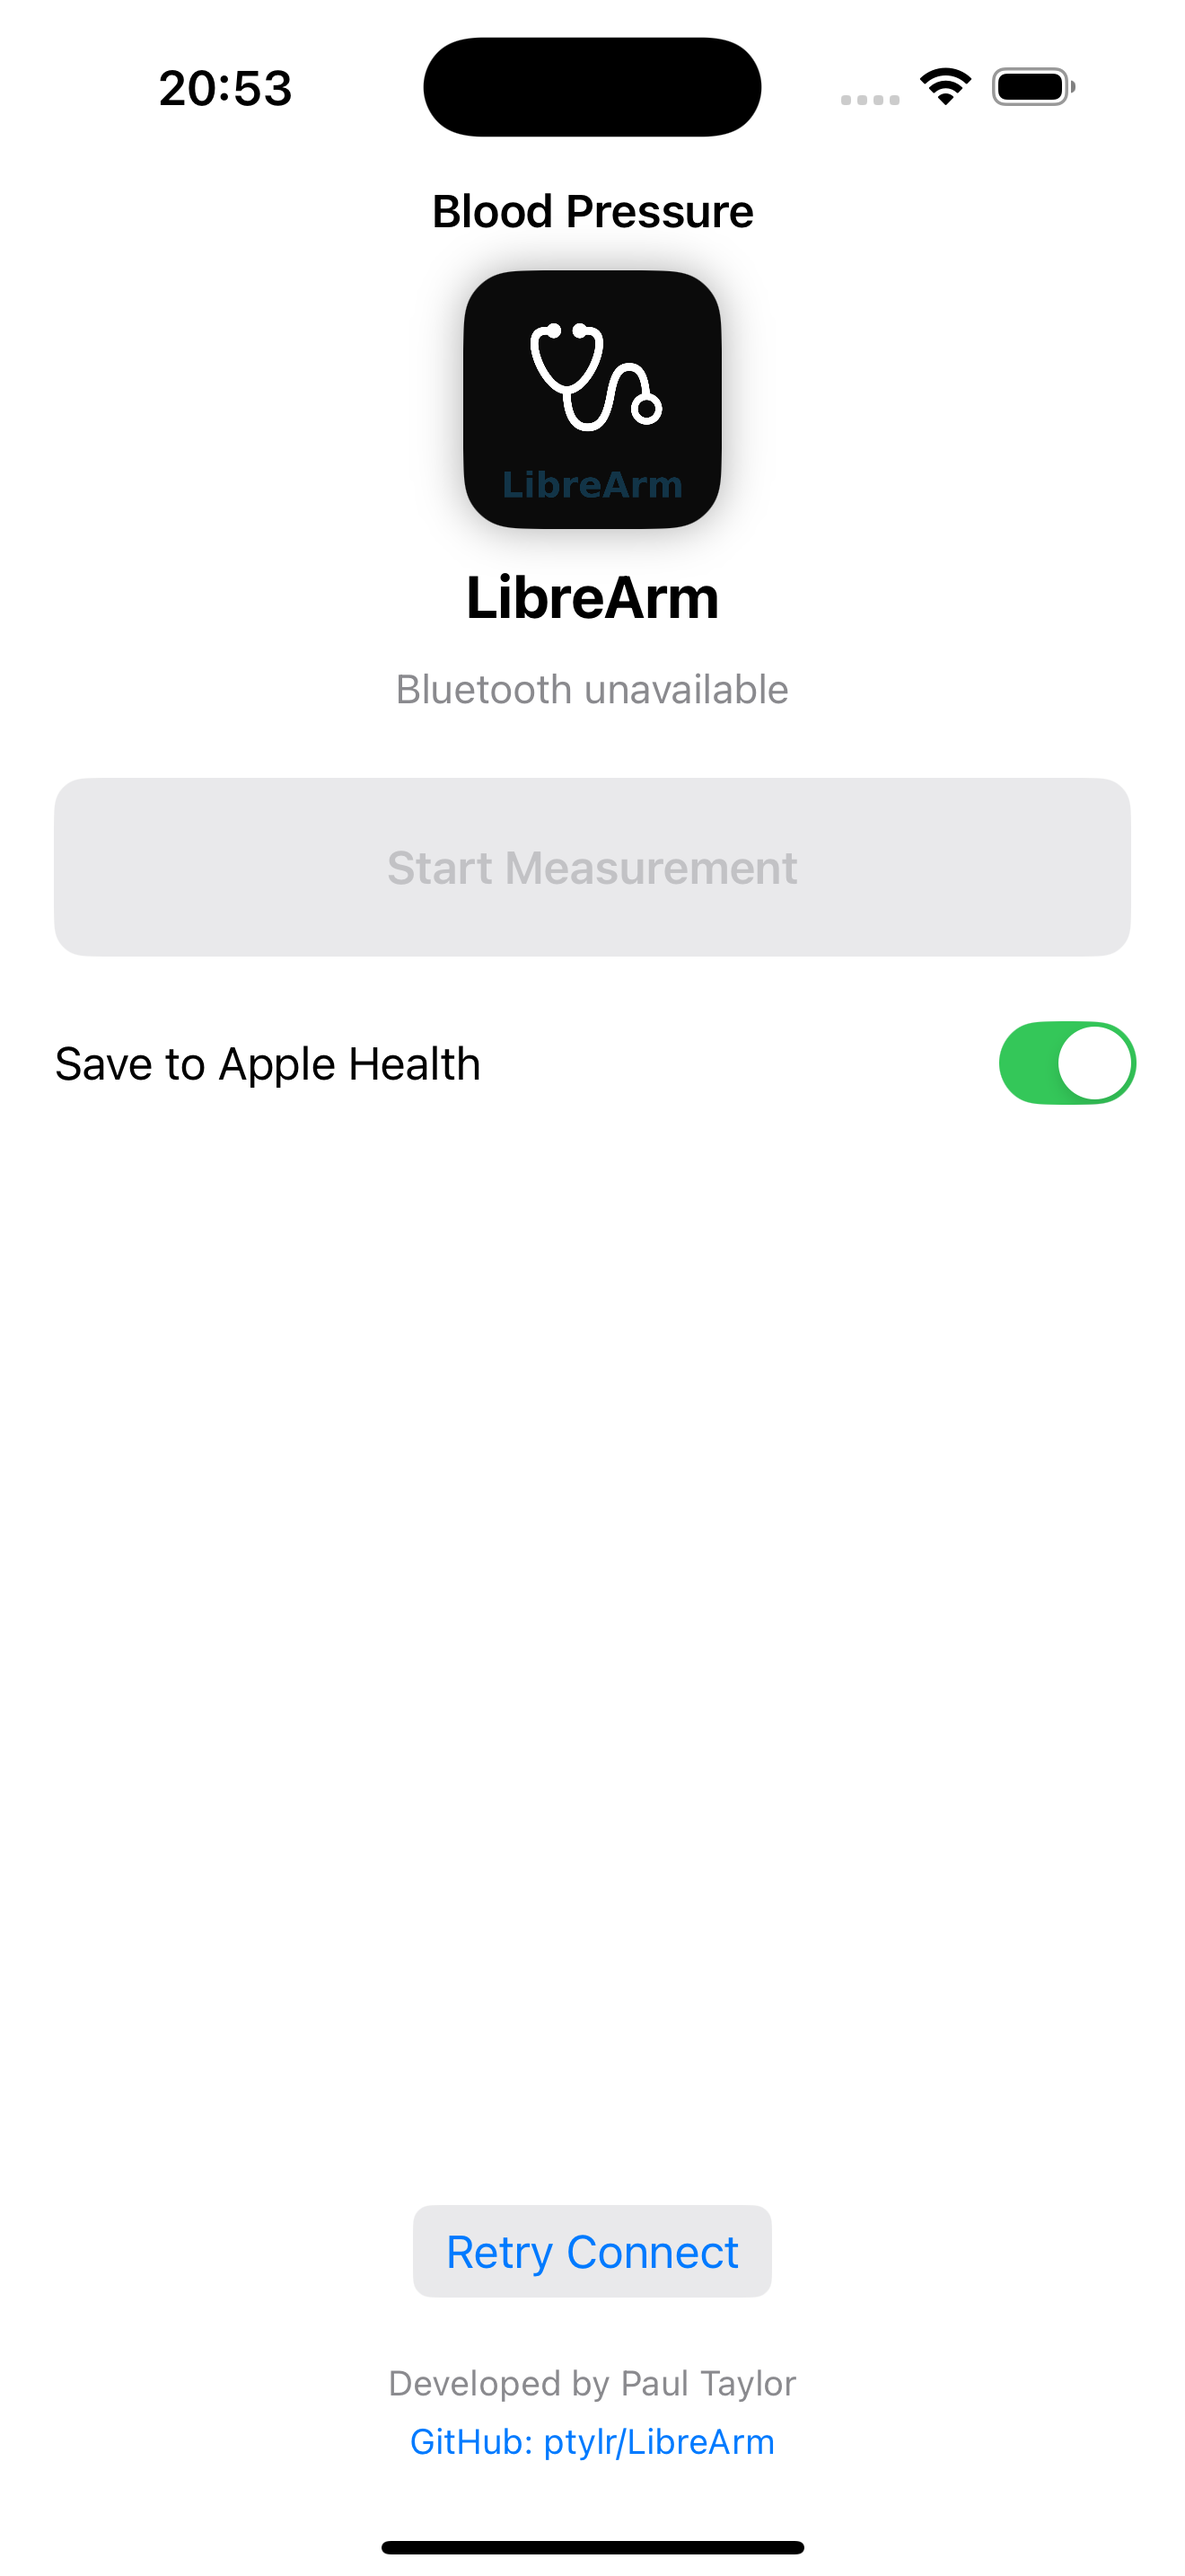
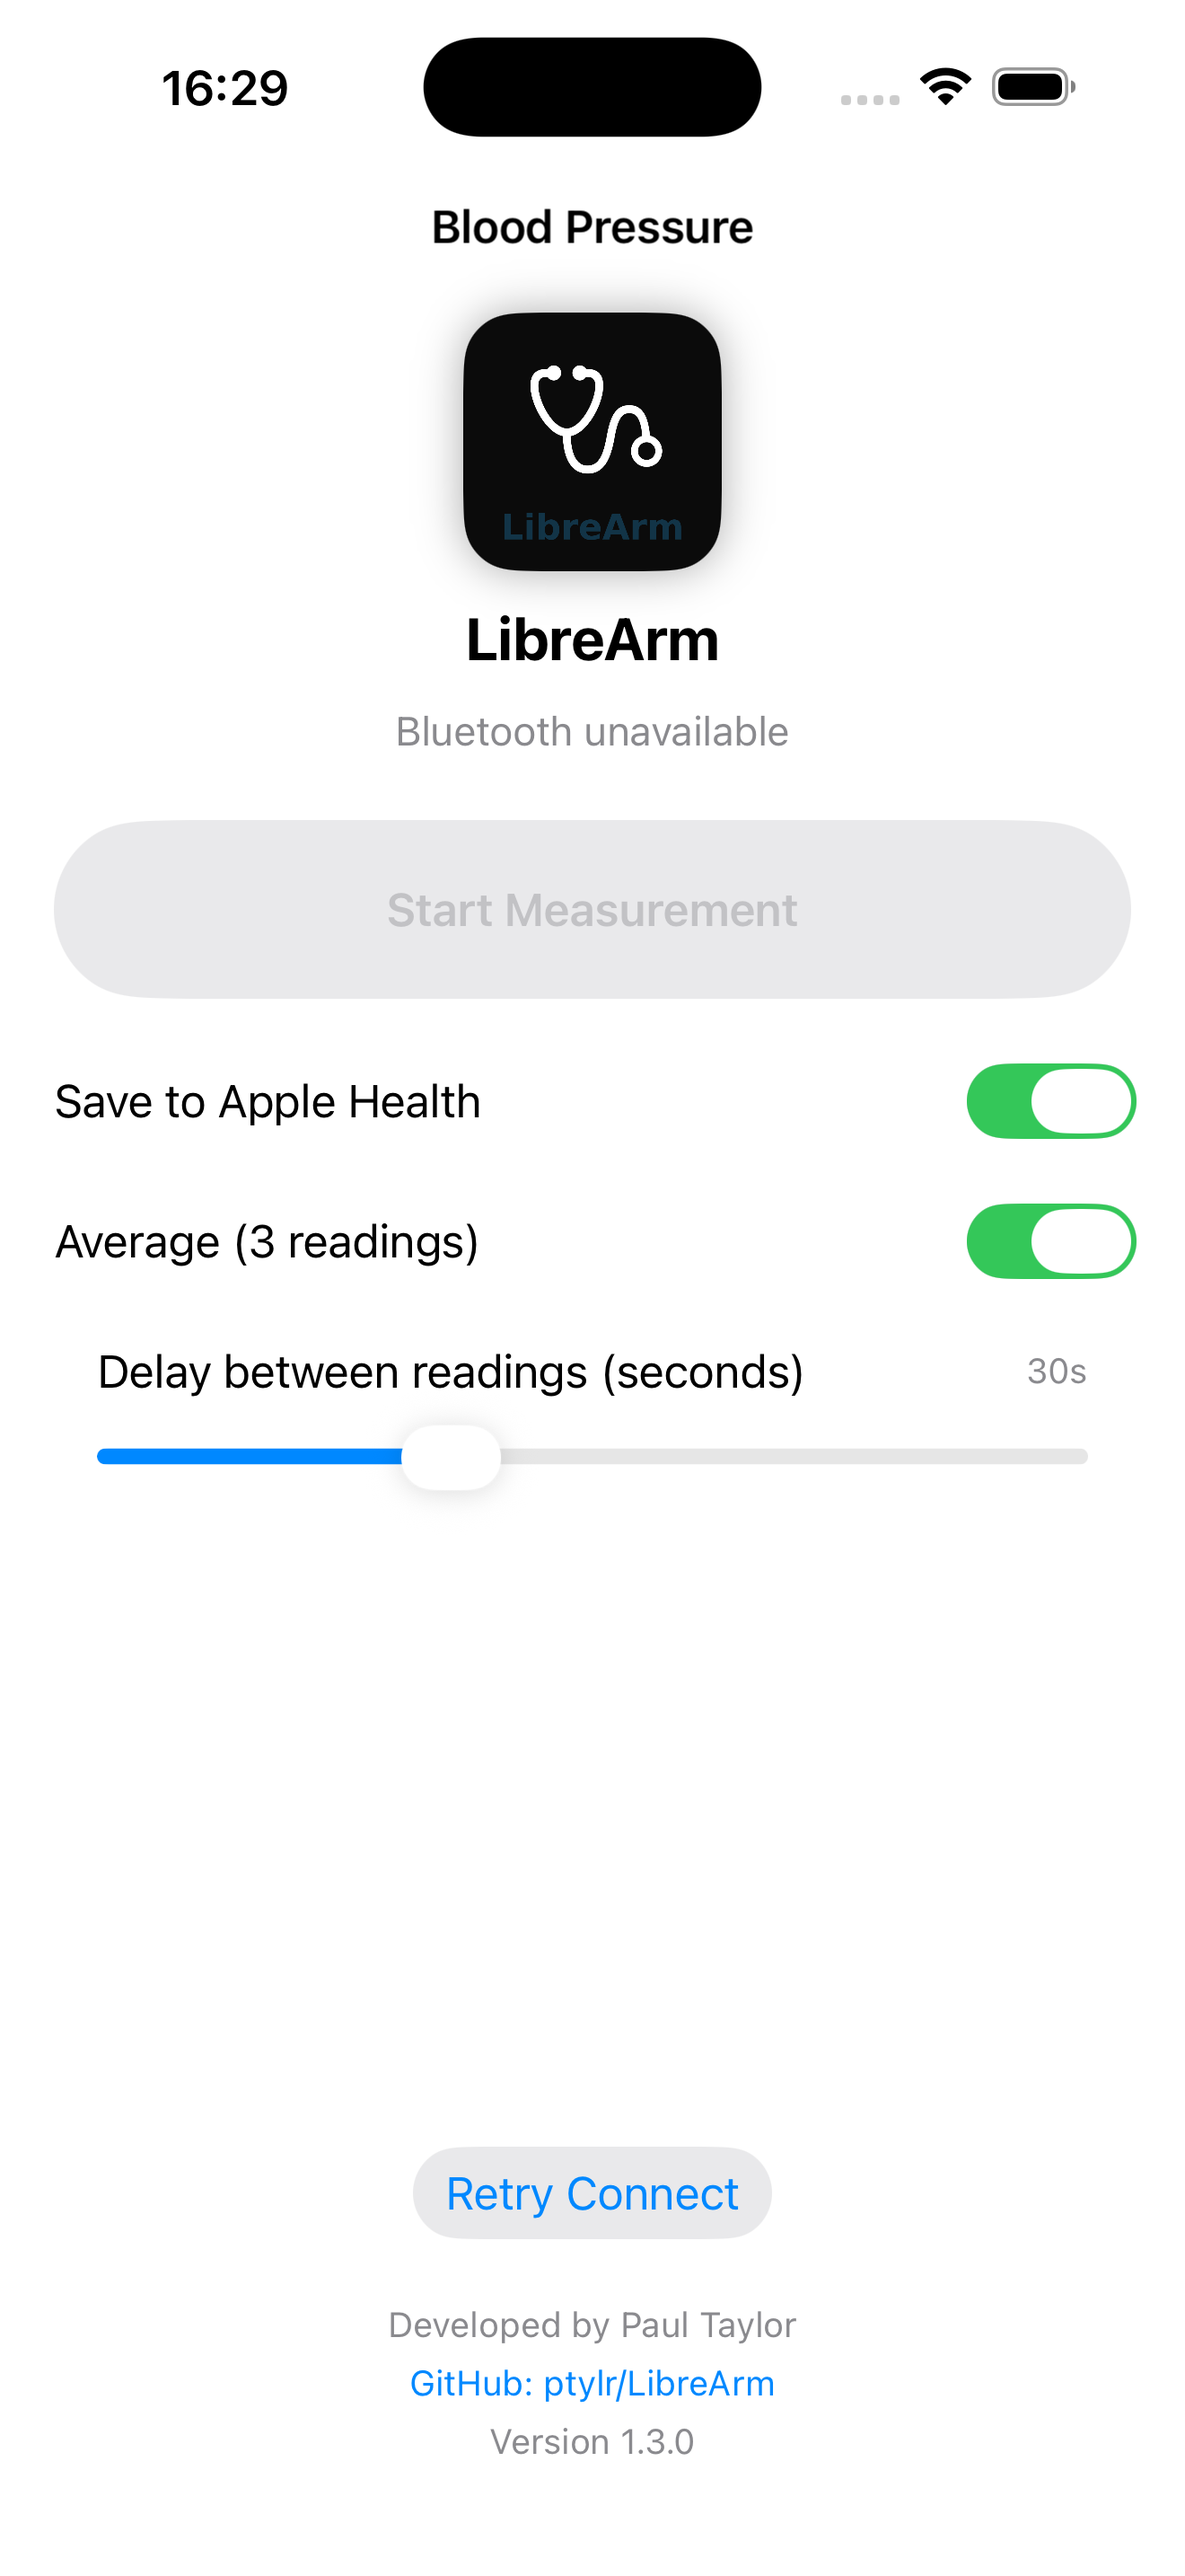
1.3.0
What’s New in Version 1.3.0

• Added a new delay slider — choose a 15, 30, 45, or 60-second pause between readings in Average Mode
• Improved Average Mode clarity and accuracy, with better handling of invalid readings
• Updated controls: all toggles and sliders are now disabled during active measurements to prevent accidental changes
• Enhanced stability and reliability of multi-run sessions
• General performance and UI improvements

diff --git a/App/ContentView.swift b/App/ContentView.swift
@@ -5,6 +5,10 @@ struct ContentView: View {
     @EnvironmentObject var health: Health
     @State private var autoSaveToHealth = true
 
+    private var delaySecondsText: String {
+        "\(Int(bp.delayBetweenRuns))s"
+    }
+
     var body: some View {
         NavigationView {
             VStack(spacing: 24) {
@@ -19,7 +23,10 @@ struct ContentView: View {
                         .accessibilityHidden(true)
 
                     Text("LibreArm").font(.title2).bold()
-                    Text(bp.status).font(.subheadline).foregroundStyle(.secondary).multilineTextAlignment(.center)
+                    Text(bp.status)
+                        .font(.subheadline)
+                        .foregroundStyle(.secondary)
+                        .multilineTextAlignment(.center)
                 }
                 .frame(maxWidth: .infinity)
 
@@ -55,34 +62,79 @@ struct ContentView: View {
                         .padding()
                 }
                 .buttonStyle(.borderedProminent)
-                .tint(bp.isMeasuring ? .red : .blue)     // 🔴 red while measuring
-                .disabled(!bp.canMeasure && !bp.isMeasuring) // keep enabled to allow Stop during measuring
+                .tint(bp.isMeasuring ? .red : .blue)
+                .disabled(!bp.canMeasure && !bp.isMeasuring)
 
-                // Save to Health toggle
+                // Save to Health toggle (disabled while measuring)
                 Toggle("Save to Apple Health", isOn: $autoSaveToHealth)
-                Toggle("Average (3 readings, 10s apart)", isOn: Binding(
-                    get: { bp.measurementMode == .average3 },
-                    set: { bp.measurementMode = $0 ? .average3 : .single }
-                ))
+                    .disabled(bp.isMeasuring)
+
+                // Average Mode toggle (disabled while measuring)
+                HStack {
+                    Text("Average (3 readings)")
+                    Spacer()
+                    Toggle("", isOn: Binding(
+                        get: { bp.measurementMode == .average3 },
+                        set: { bp.measurementMode = $0 ? .average3 : .single }
+                    ))
+                    .labelsHidden()
+                    .disabled(bp.isMeasuring)
+                }
+
+                // Delay Slider (only visible in Average mode; disabled while measuring)
+                if bp.measurementMode == .average3 {
+                    VStack(alignment: .leading, spacing: 6) {
+                        HStack {
+                            Text("Delay between readings (seconds)")
+                            Spacer()
+                            Text(delaySecondsText)
+                                .font(.footnote)
+                                .foregroundStyle(.secondary)
+                        }
+                        Slider(
+                            value: Binding<Double>(
+                                get: { bp.delayBetweenRuns },
+                                set: { newVal in bp.delayBetweenRuns = newVal }
+                            ),
+                            in: 15...60, // updated min
+                            step: 15,    // updated step
+                            onEditingChanged: { editing in
+                                if !editing {
+                                    // Snap to nearest of [15, 30, 45, 60]
+                                    let options: [Double] = [15, 30, 45, 60]
+                                    let v = bp.delayBetweenRuns
+                                    let snapped = options.min(by: { abs($0 - v) < abs($1 - v) }) ?? 30
+                                    bp.delayBetweenRuns = snapped
+                                }
+                            }
+                        )
+                        .disabled(bp.isMeasuring)
+                    }
+                    .padding(.horizontal)
+                }
 
                 Spacer(minLength: 12)
 
+                // Retry button
                 if !bp.isConnected {
                     Button("Retry Connect") { bp.startConnect(timeout: 30) }
                         .buttonStyle(.bordered)
                         .transition(.opacity.combined(with: .move(edge: .bottom)))
                 }
 
+                // Footer
                 VStack(spacing: 6) {
-                    Text("Developed by Paul Taylor").font(.footnote).foregroundStyle(.secondary)
-                    Link("GitHub: ptylr/LibreArm", destination: URL(string: "https://github.com/ptylr/LibreArm")!)
+                    Text("Developed by Paul Taylor")
+                        .font(.footnote)
+                        .foregroundStyle(.secondary)
+                    Link("GitHub: ptylr/LibreArm",
+                         destination: URL(string: "https://github.com/ptylr/LibreArm")!)
                         .font(.footnote)
                     if let version = Bundle.main.infoDictionary?["CFBundleShortVersionString"] as? String {
                         Text("Version \(version)")
                             .font(.footnote)
                             .foregroundStyle(.secondary)
                     }
-
                 }
                 .padding(.bottom, 8)
             }
@@ -90,11 +142,22 @@ struct ContentView: View {
             .navigationTitle("Blood Pressure")
             .navigationBarTitleDisplayMode(.inline)
             .task {
-                do { try await health.requestAuth() } catch { bp.status = "Health permission denied" }
+                do {
+                    try await health.requestAuth()
+                } catch {
+                    bp.status = "Health permission denied"
+                }
 
                 bp.onFinalReading = { reading in
                     guard autoSaveToHealth else { return }
-                    Task { try? await health.saveBP(systolic: reading.sys, diastolic: reading.dia, bpm: reading.hr, date: Date()) }
+                    Task {
+                        try? await health.saveBP(
+                            systolic: reading.sys,
+                            diastolic: reading.dia,
+                            bpm: reading.hr,
+                            date: Date()
+                        )
+                    }
                 }
 
                 bp.startConnect(timeout: 30)

diff --git a/Core/BPClient.swift b/Core/BPClient.swift
@@ -15,7 +15,8 @@ final class BPClient: NSObject, ObservableObject {
     @Published var lastReading: BPReading?
     @Published var isConnected = false
     @Published var canMeasure = false
-    @Published var isMeasuring = false        // 🔴 NEW: drive Start/Stop button
+    @Published var isMeasuring = false
+    @Published var delayBetweenRuns: Double = 15
 
     // Measurement mode
     @Published var measurementMode: MeasurementMode = .single
@@ -23,7 +24,8 @@ final class BPClient: NSObject, ObservableObject {
     // Averaging session state (used only when measurementMode == .average3)
     private var remainingRuns: Int = 0
     private var accumulatedReadings: [BPReading] = []
-    private let interRunDelaySeconds: TimeInterval = 10
+    private let interRunDelaySeconds: TimeInterval = 15
+
 
     /// Fires once per measurement session when the cuff stops sending updates.
     var onFinalReading: ((BPReading) -> Void)?
@@ -98,7 +100,7 @@ final class BPClient: NSObject, ObservableObject {
     /// Start measurement (enabled when `canMeasure` is true).
     func startMeasurement() {
         guard let _ = peripheral, let _ = controlChar, canMeasure else { return }
-        // If we're already in a multi-run session, ignore additional starts so the UI stays in Stop state
+
         if measurementMode == .average3 && sessionActive {
             return
         }
@@ -138,7 +140,7 @@ final class BPClient: NSObject, ObservableObject {
         // Do not call finalize (which would save); just reset state.
         sessionActive = false
         hasFiredFinal = true
-        isMeasuring = false                         // 🔴 measuring OFF
+        isMeasuring = false
         UIApplication.shared.isIdleTimerDisabled = false
         status = "Connected — ready"
     }
@@ -164,17 +166,22 @@ final class BPClient: NSObject, ObservableObject {
 
         // For average3 mode, accumulate and schedule subsequent runs
         if measurementMode == .average3 {
-            accumulatedReadings.append(reading)
+            if isPlausible(reading) {
+                accumulatedReadings.append(reading)
+            }
 
-            // If we still have more runs to do, schedule the next one with live countdown
+            // If we still have more runs to do, schedule the next one
             if remainingRuns > 1 {
                 remainingRuns -= 1
-                var countdown = Int(interRunDelaySeconds)
+
+                // Use the user-selected delay (from slider)
+                var countdown = Int(self.delayBetweenRuns)
                 status = "Measured run \(3 - remainingRuns) of 3 — next in \(countdown)s…"
                 isMeasuring = true
 
                 // Countdown timer updates every second
-                Timer.scheduledTimer(withTimeInterval: 1.0, repeats: true) { timer in
+                Timer.scheduledTimer(withTimeInterval: 1.0, repeats: true) { [weak self] timer in
+                    guard let self = self else { timer.invalidate(); return }
                     countdown -= 1
                     if countdown > 0 {
                         self.status = "Measured run \(3 - self.remainingRuns) of 3 — next in \(countdown)s…"
@@ -185,6 +192,7 @@ final class BPClient: NSObject, ObservableObject {
                         self.performSingleRunStart()
                     }
                 }
+
                 return
             }
 
@@ -196,7 +204,6 @@ final class BPClient: NSObject, ObservableObject {
             UIApplication.shared.isIdleTimerDisabled = false
             status = "Connected — ready"
             onFinalReading?(avg)
-            // reset accumulators
             remainingRuns = 0
             accumulatedReadings.removeAll()
             return
@@ -211,16 +218,34 @@ final class BPClient: NSObject, ObservableObject {
         onFinalReading?(reading)
     }
 
+    /// Returns the arithmetic mean of valid readings only.
+    /// Falls back to the last valid reading if none pass plausibility checks.
     private func average(of readings: [BPReading]) -> BPReading {
-        guard !readings.isEmpty else { return lastReading ?? BPReading(sys: 0, dia: 0, map: nil, hr: nil) }
-        let n = Double(readings.count)
-        let sys = readings.map { $0.sys }.reduce(0, +) / n
-        let dia = readings.map { $0.dia }.reduce(0, +) / n
-        let mapVals = readings.compactMap { $0.map }
+        // Keep only plausible, finite values
+        let valid = readings.filter { isPlausible($0) }
+
+        // If none valid, try a sensible fallback
+        if valid.isEmpty {
+            if let r = lastReading, isPlausible(r) {
+                return r
+            } else {
+                // Upstream guards should prevent saving 0/0
+                return BPReading(sys: 0, dia: 0, map: nil, hr: nil)
+            }
+        }
+
+        let n = Double(valid.count)
+        let sysAvg = valid.map { $0.sys }.reduce(0, +) / n
+        let diaAvg = valid.map { $0.dia }.reduce(0, +) / n
+
+        // Optional fields averaged only when present and plausible
+        let mapVals = valid.compactMap { $0.map }.filter { $0.isFinite }
         let mapAvg = mapVals.isEmpty ? nil : (mapVals.reduce(0, +) / Double(mapVals.count))
-        let hrVals = readings.compactMap { $0.hr }
+
+        let hrVals = valid.compactMap { $0.hr }.filter { $0.isFinite && $0 >= 20 && $0 <= 220 }
         let hrAvg = hrVals.isEmpty ? nil : (hrVals.reduce(0, +) / Double(hrVals.count))
-        return BPReading(sys: sys, dia: dia, map: mapAvg, hr: hrAvg)
+
+        return BPReading(sys: sysAvg, dia: diaAvg, map: mapAvg, hr: hrAvg)
     }
 
     // MARK: - Parser
@@ -348,5 +373,11 @@ extension BPClient: CBCentralManagerDelegate, CBPeripheralDelegate {
             status = "Notify error: \(error.localizedDescription)"
         }
     }
+    
+    /// Filters out frames that are partial/invalid (e.g. IEEE-11073 SFLOAT NaN -> 0x07FF => 2047)
+    private func isPlausible(_ r: BPReading) -> Bool {
+        guard r.sys.isFinite, r.dia.isFinite else { return false }
+        // Adult plausible range (tune if you support other populations)
+        return (r.sys >= 60 && r.sys <= 260) && (r.dia >= 40 && r.dia <= 160)
+    }
 }
-

diff --git a/README.md b/README.md
@@ -20,6 +20,18 @@ This project exists because Qardio, Inc. shut down its backend services and app 
 
 ---
 
+## ✨ Features (v1.3.0)
+
+### New in v1.3.0
+
+- Added **Delay Between Readings** slider — choose between 10s, 30s, or 60s intervals for Average Mode.
+- Average Mode label updated to “Average (3 readings)” for clarity.
+- Added live countdown between readings that reflects the user-selected delay value.
+- Enhanced reliability: the **Stop Measurement** button now remains active and red for the entire multi-run session.
+- Improved UI alignment for toggles and controls.
+- Version updated to 1.3.0.
+
+---
 ## ✨ Features (v1.2.0)
 
 - Connects to QardioArm over BLE (no Qardio cloud or accounts required)
